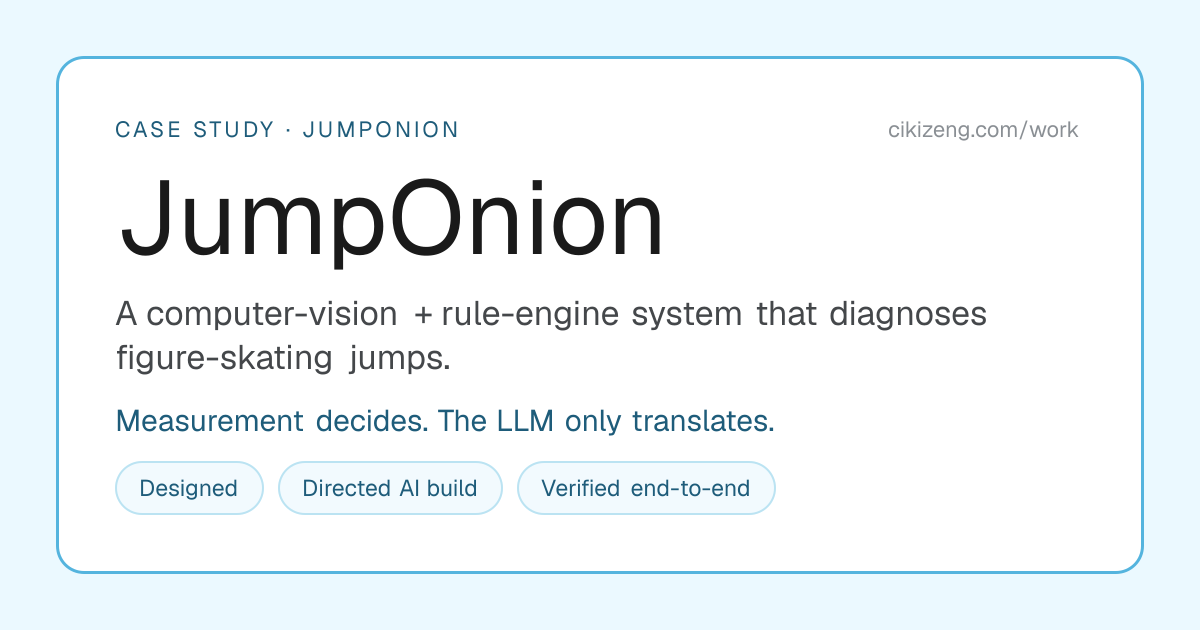
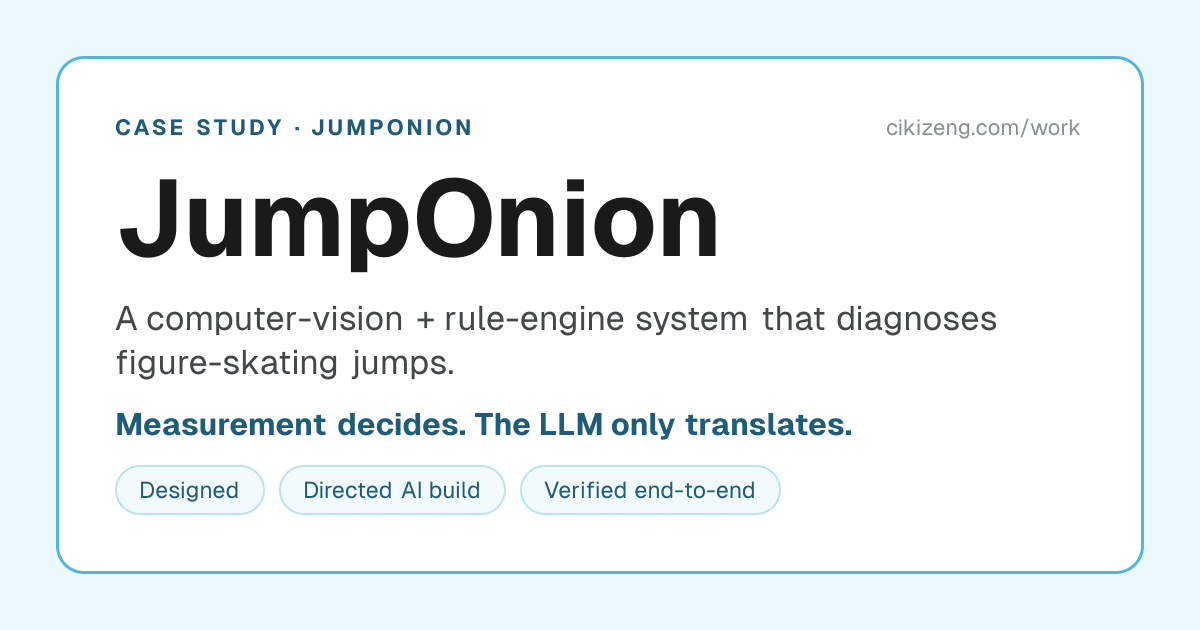
fix(og): bold the JumpOnion OG card — bundle Geist 400/700 for ImageResponse
next/og's default font is single-weight, so fontWeight had no effect and the OG
card rendered flat (title not bold, looked unstyled). Bundle Geist Regular + Bold
(woff, Satori-supported) and readFile them at build time, so the title, labels,
and accent line render at proper weight. Re-capture cover.png from the fixed OG.

diff --git a/src/app/work/jumponion/opengraph-image.tsx b/src/app/work/jumponion/opengraph-image.tsx
@@ -1,14 +1,22 @@
 import { ImageResponse } from "next/og";
+import { readFile } from "node:fs/promises";
+import { join } from "node:path";
 
-// Statically optimized at build time (no request-time APIs / no uncached data).
+// Statically optimized at build time (readFile of a local asset is not a request-time API).
 export const alt =
   "JumpOnion — a computer-vision + rule-engine figure-skating jump-diagnosis system I designed, directed, and verified end-to-end.";
 export const size = { width: 1200, height: 630 };
 export const contentType = "image/png";
 
+const FONT_DIR = "src/app/work/jumponion/_fonts";
 const chips = ["Designed", "Directed AI build", "Verified end-to-end"];
 
-export default function Image() {
+export default async function Image() {
+  const [geistRegular, geistBold] = await Promise.all([
+    readFile(join(process.cwd(), FONT_DIR, "Geist-Regular.woff")),
+    readFile(join(process.cwd(), FONT_DIR, "Geist-Bold.woff")),
+  ]);
+
   return new ImageResponse(
     (
       <div
@@ -18,6 +26,7 @@ export default function Image() {
           display: "flex",
           padding: 56,
           backgroundColor: "#EBF9FF",
+          fontFamily: "Geist",
         }}
       >
         <div
@@ -43,6 +52,7 @@ export default function Image() {
             <div
               style={{
                 fontSize: 22,
+                fontWeight: 700,
                 letterSpacing: 3,
                 color: "#1E5C7A",
                 textTransform: "uppercase",
@@ -50,23 +60,34 @@ export default function Image() {
             >
               Case Study · JumpOnion
             </div>
-            <div style={{ fontSize: 22, color: "#8A8F94" }}>cikizeng.com/work</div>
+            <div style={{ fontSize: 22, fontWeight: 400, color: "#8A8F94" }}>
+              cikizeng.com/work
+            </div>
           </div>
 
           {/* main block */}
           <div style={{ display: "flex", flexDirection: "column" }}>
-            <div style={{ fontSize: 104, fontWeight: 700, color: "#1A1A1A", lineHeight: 1 }}>
+            <div style={{ fontSize: 108, fontWeight: 700, color: "#1A1A1A", lineHeight: 1 }}>
               JumpOnion
             </div>
-            <div style={{ display: "flex", fontSize: 34, color: "#44474A", marginTop: 22, lineHeight: 1.3 }}>
+            <div
+              style={{
+                display: "flex",
+                fontSize: 34,
+                fontWeight: 400,
+                color: "#44474A",
+                marginTop: 24,
+                lineHeight: 1.3,
+              }}
+            >
               A computer-vision + rule-engine system that diagnoses figure-skating jumps.
             </div>
             <div
               style={{
                 display: "flex",
-                fontSize: 30,
+                fontSize: 31,
+                fontWeight: 700,
                 color: "#1E5C7A",
-                fontWeight: 600,
                 marginTop: 22,
               }}
             >
@@ -82,6 +103,7 @@ export default function Image() {
                 style={{
                   display: "flex",
                   fontSize: 23,
+                  fontWeight: 400,
                   color: "#1E5C7A",
                   backgroundColor: "#F2FAFE",
                   border: "2px solid #BBE3F2",
@@ -97,6 +119,12 @@ export default function Image() {
         </div>
       </div>
     ),
-    { ...size }
+    {
+      ...size,
+      fonts: [
+        { name: "Geist", data: geistRegular, weight: 400, style: "normal" },
+        { name: "Geist", data: geistBold, weight: 700, style: "normal" },
+      ],
+    }
   );
 }